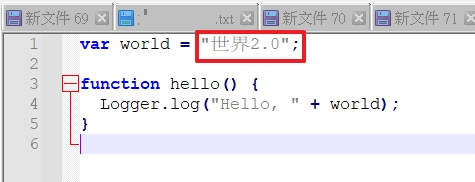
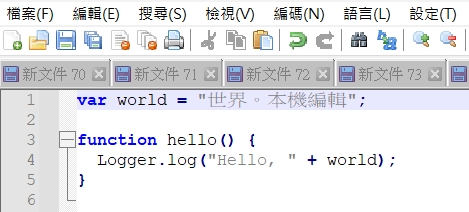
Site updated: 2025-12-04 17:24:09

diff --git a/2025/12/03/Google-App-Script-GAS-應用/index.html b/2025/12/03/Google-App-Script-GAS-應用/index.html
@@ -25,9 +25,9 @@
 <meta property="og:image" content="http://example.com/2025/12/03/Google-App-Script-GAS-%E6%87%89%E7%94%A8/clasp_10.jpg">
 <meta property="og:image" content="http://example.com/2025/12/03/Google-App-Script-GAS-%E6%87%89%E7%94%A8/clasp_11.jpg">
 <meta property="og:image" content="http://example.com/2025/12/03/Google-App-Script-GAS-%E6%87%89%E7%94%A8/clasp_12.jpg">
-<meta property="og:image" content="http://example.com/2025/12/03/Google-App-Script-GAS-%E6%87%89%E7%94%A8/clasp_12.jpg">
+<meta property="og:image" content="http://example.com/2025/12/03/Google-App-Script-GAS-%E6%87%89%E7%94%A8/clasp_13.jpg">
 <meta property="article:published_time" content="2025-12-03T06:32:25.000Z">
-<meta property="article:modified_time" content="2025-12-04T09:12:20.853Z">
+<meta property="article:modified_time" content="2025-12-04T09:24:01.371Z">
 <meta property="article:author" content="John Doe">
 <meta property="article:tag" content="GAS">
 <meta name="twitter:card" content="summary">
@@ -173,7 +173,7 @@
 <img src="/2025/12/03/Google-App-Script-GAS-%E6%87%89%E7%94%A8/clasp_7.jpg" class="" title="clasp create success">
 <h5 id="到Google-App-Script的管理頁看，也會多了一個叫clasp-condelab的新專案。"><a href="#到Google-App-Script的管理頁看，也會多了一個叫clasp-condelab的新專案。" class="headerlink" title="到Google App Script的管理頁看，也會多了一個叫clasp_condelab的新專案。"></a>到Google App Script的管理頁看，也會多了一個叫clasp_condelab的新專案。</h5><img src="/2025/12/03/Google-App-Script-GAS-%E6%87%89%E7%94%A8/clasp_8.jpg" class="" title="new project">
 <h1 id="-44"><a href="#-44" class="headerlink" title=""></a></h1><h1 id="-45"><a href="#-45" class="headerlink" title=""></a></h1><h1 id="-46"><a href="#-46" class="headerlink" title=""></a></h1><h1 id="-47"><a href="#-47" class="headerlink" title=""></a></h1></li>
-<li><h5 id="push-pull"><a href="#push-pull" class="headerlink" title="push &amp; pull"></a>push &amp; pull</h5><ol>
+<li><h5 id="push-pull-version-指令"><a href="#push-pull-version-指令" class="headerlink" title="push &amp; pull &amp; version 指令"></a>push &amp; pull &amp; version 指令</h5><ol>
 <li><h5 id="接著來試試看pull功能，我們在專案clasp-condelab的線上編輯器新增一個test檔案-不用副檔名-。並在裡面新增內容。編輯完成後要記得點選存檔"><a href="#接著來試試看pull功能，我們在專案clasp-condelab的線上編輯器新增一個test檔案-不用副檔名-。並在裡面新增內容。編輯完成後要記得點選存檔" class="headerlink" title="接著來試試看pull功能，我們在專案clasp_condelab的線上編輯器新增一個test檔案(不用副檔名)。並在裡面新增內容。編輯完成後要記得點選存檔!!"></a>接著來試試看pull功能，我們在專案clasp_condelab的線上編輯器新增一個test檔案(不用副檔名)。並在裡面新增內容。編輯完成後要記得點選存檔!!</h5></li>
 </ol>
 <img src="/2025/12/03/Google-App-Script-GAS-%E6%87%89%E7%94%A8/clasp_9.jpg" class="" title="add new file">
@@ -184,25 +184,15 @@
 <figure class="highlight bash"><table><tr><td class="gutter"><pre><span class="line">1</span><br></pre></td><td class="code"><pre><span class="line">clasp pull</span><br></pre></td></tr></table></figure>
 <img src="/2025/12/03/Google-App-Script-GAS-%E6%87%89%E7%94%A8/clasp_11.jpg" class="" title="pull done.">
 <h1 id="-56"><a href="#-56" class="headerlink" title=""></a></h1><h1 id="-57"><a href="#-57" class="headerlink" title=""></a></h1><h1 id="-58"><a href="#-58" class="headerlink" title=""></a></h1><h1 id="-59"><a href="#-59" class="headerlink" title=""></a></h1><ol start="3">
-<li><h5 id="如果執行push的話，則是會在線上GAS上新增一個快照版本，可以把目前的程式內容做成一份快照存下來。我們來修改一下GAS程式內容做個測試。"><a href="#如果執行push的話，則是會在線上GAS上新增一個快照版本，可以把目前的程式內容做成一份快照存下來。我們來修改一下GAS程式內容做個測試。" class="headerlink" title="如果執行push的話，則是會在線上GAS上新增一個快照版本，可以把目前的程式內容做成一份快照存下來。我們來修改一下GAS程式內容做個測試。"></a>如果執行push的話，則是會在線上GAS上新增一個快照版本，可以把目前的程式內容做成一份快照存下來。我們來修改一下GAS程式內容做個測試。</h5> <img src="/2025/12/03/Google-App-Script-GAS-%E6%87%89%E7%94%A8/clasp_12.jpg" class="">
+<li><h5 id="如果執行push的話，則是會在把你在本機編輯的GAS程式push到遠端上面。我們編輯一下本機GAS程式，並執行push來做個測試。"><a href="#如果執行push的話，則是會在把你在本機編輯的GAS程式push到遠端上面。我們編輯一下本機GAS程式，並執行push來做個測試。" class="headerlink" title="如果執行push的話，則是會在把你在本機編輯的GAS程式push到遠端上面。我們編輯一下本機GAS程式，並執行push來做個測試。"></a>如果執行push的話，則是會在把你在本機編輯的GAS程式push到遠端上面。我們編輯一下本機GAS程式，並執行push來做個測試。</h5> <img src="/2025/12/03/Google-App-Script-GAS-%E6%87%89%E7%94%A8/clasp_12.jpg" class="">
 <h1 id="-60"><a href="#-60" class="headerlink" title=""></a></h1><h1 id="-61"><a href="#-61" class="headerlink" title=""></a></h1><h1 id="-62"><a href="#-62" class="headerlink" title=""></a></h1> <figure class="highlight bash"><table><tr><td class="gutter"><pre><span class="line">1</span><br></pre></td><td class="code"><pre><span class="line">clasp push</span><br></pre></td></tr></table></figure>
-<h1 id="-63"><a href="#-63" class="headerlink" title=""></a></h1><h1 id="-64"><a href="#-64" class="headerlink" title=""></a></h1><h1 id="-65"><a href="#-65" class="headerlink" title=""></a></h1><h5 id="切換到專案紀錄頁籤，可以看到"><a href="#切換到專案紀錄頁籤，可以看到" class="headerlink" title="切換到專案紀錄頁籤，可以看到"></a>切換到專案紀錄頁籤，可以看到</h5> <img src="/2025/12/03/Google-App-Script-GAS-%E6%87%89%E7%94%A8/clasp_12.jpg" class=""></li>
+<h1 id="-63"><a href="#-63" class="headerlink" title=""></a></h1><h1 id="-64"><a href="#-64" class="headerlink" title=""></a></h1><h1 id="-65"><a href="#-65" class="headerlink" title=""></a></h1><h5 id="重新整理GAS後，可以看到線上的GAS程式被改變了"><a href="#重新整理GAS後，可以看到線上的GAS程式被改變了" class="headerlink" title="重新整理GAS後，可以看到線上的GAS程式被改變了"></a>重新整理GAS後，可以看到線上的GAS程式被改變了</h5> <img src="/2025/12/03/Google-App-Script-GAS-%E6%87%89%E7%94%A8/clasp_13.jpg" class=""></li>
+<li><h5 id="如果執行version-“-備註-”的話，則是會在線上GAS上新增一個快照版本，可以把目前的程式內容做成一份快照存下來。我們來修改一下GAS程式內容並執行version指令做個測試。"><a href="#如果執行version-“-備註-”的話，則是會在線上GAS上新增一個快照版本，可以把目前的程式內容做成一份快照存下來。我們來修改一下GAS程式內容並執行version指令做個測試。" class="headerlink" title="如果執行version “{備註}”的話，則是會在線上GAS上新增一個快照版本，可以把目前的程式內容做成一份快照存下來。我們來修改一下GAS程式內容並執行version指令做個測試。"></a>如果執行version “{備註}”的話，則是會在線上GAS上新增一個快照版本，可以把目前的程式內容做成一份快照存下來。我們來修改一下GAS程式內容並執行version指令做個測試。</h5></li>
 </ol>
-</li>
-<li><h5 id="版本管理與部署，clasp-可讓您管理版本和部署作業。首先介紹一些詞彙："><a href="#版本管理與部署，clasp-可讓您管理版本和部署作業。首先介紹一些詞彙：" class="headerlink" title="版本管理與部署，clasp 可讓您管理版本和部署作業。首先介紹一些詞彙："></a>版本管理與部署，clasp 可讓您管理版本和部署作業。首先介紹一些詞彙：</h5><ul>
-<li><h5 id="版本：「快照」編寫程式碼版本可視為用於部署作業的唯讀分支版本。"><a href="#版本：「快照」編寫程式碼版本可視為用於部署作業的唯讀分支版本。" class="headerlink" title="版本：「快照」編寫程式碼版本可視為用於部署作業的唯讀分支版本。"></a>版本：「快照」編寫程式碼版本可視為用於部署作業的唯讀分支版本。</h5></li>
-<li><h5 id="部署作業：指令碼專案的已發布版本-通常是外掛程式或網頁應用程式-。需要版本號碼。"><a href="#部署作業：指令碼專案的已發布版本-通常是外掛程式或網頁應用程式-。需要版本號碼。" class="headerlink" title="部署作業：指令碼專案的已發布版本 (通常是外掛程式或網頁應用程式)。需要版本號碼。"></a>部署作業：指令碼專案的已發布版本 (通常是外掛程式或網頁應用程式)。需要版本號碼。</h5></li>
-</ul>
-<ol>
-<li><h5 id="建立快照前，對本機程式做些修改並存檔。"><a href="#建立快照前，對本機程式做些修改並存檔。" class="headerlink" title="建立快照前，對本機程式做些修改並存檔。"></a>建立快照前，對本機程式做些修改並存檔。</h5></li>
+<figure class="highlight bash"><table><tr><td class="gutter"><pre><span class="line">1</span><br><span class="line">2</span><br><span class="line">3</span><br><span class="line">4</span><br><span class="line">5</span><br><span class="line">6</span><br><span class="line">7</span><br><span class="line">8</span><br><span class="line">9</span><br><span class="line">10</span><br><span class="line">11</span><br><span class="line">12</span><br><span class="line">13</span><br><span class="line">14</span><br></pre></td><td class="code"><pre><span class="line">    clasp push</span><br><span class="line">    ```    </span><br><span class="line">6. <span class="comment">##### 版本管理與部署，clasp 可讓您管理版本和部署作業。首先介紹一些詞彙：</span></span><br><span class="line">    * <span class="comment">##### 版本：「快照」編寫程式碼版本可視為用於部署作業的唯讀分支版本。</span></span><br><span class="line">    * <span class="comment">##### 部署作業：指令碼專案的已發布版本 (通常是外掛程式或網頁應用程式)。需要版本號碼。</span></span><br><span class="line">    1. <span class="comment">##### 建立快照前，對本機程式做些修改並存檔。</span></span><br><span class="line">    </span><br><span class="line">    <span class="comment">#</span></span><br><span class="line">    <span class="comment">#</span></span><br><span class="line">    <span class="comment">#</span></span><br><span class="line">    <span class="comment">#    </span></span><br><span class="line">    2. <span class="comment">##### 接著執行指令，建立快照</span></span><br><span class="line">    ```bash</span><br><span class="line">    clasp version <span class="string">&quot;version 2.0&quot;</span></span><br></pre></td></tr></table></figure>
+<figure class="highlight bash"><table><tr><td class="gutter"><pre><span class="line">1</span><br></pre></td><td class="code"><pre><span class="line">clasp deploy 1 <span class="string">&quot;First deployment&quot;</span></span><br></pre></td></tr></table></figure></li>
 </ol>
-<h1 id="-66"><a href="#-66" class="headerlink" title=""></a></h1><h1 id="-67"><a href="#-67" class="headerlink" title=""></a></h1><h1 id="-68"><a href="#-68" class="headerlink" title=""></a></h1><h1 id="-69"><a href="#-69" class="headerlink" title=""></a></h1><ol start="2">
-<li><h5 id="接著執行指令，建立快照"><a href="#接著執行指令，建立快照" class="headerlink" title="接著執行指令，建立快照"></a>接著執行指令，建立快照</h5></li>
-</ol>
- <figure class="highlight bash"><table><tr><td class="gutter"><pre><span class="line">1</span><br></pre></td><td class="code"><pre><span class="line">clasp version <span class="string">&quot;version 2.0&quot;</span></span><br></pre></td></tr></table></figure>
- <figure class="highlight bash"><table><tr><td class="gutter"><pre><span class="line">1</span><br></pre></td><td class="code"><pre><span class="line">clasp deploy 1 <span class="string">&quot;First deployment&quot;</span></span><br></pre></td></tr></table></figure></li>
-</ol>
-<h1 id="-70"><a href="#-70" class="headerlink" title=""></a></h1><h1 id="-71"><a href="#-71" class="headerlink" title=""></a></h1><h1 id="-72"><a href="#-72" class="headerlink" title=""></a></h1><h1 id="-73"><a href="#-73" class="headerlink" title=""></a></h1><hr>
+<h1 id="-66"><a href="#-66" class="headerlink" title=""></a></h1><h1 id="-67"><a href="#-67" class="headerlink" title=""></a></h1><h1 id="-68"><a href="#-68" class="headerlink" title=""></a></h1><h1 id="-69"><a href="#-69" class="headerlink" title=""></a></h1><hr>
 <ul>
 <li><h5 id="Ref："><a href="#Ref：" class="headerlink" title="Ref："></a>Ref：</h5><ol>
 <li><h5 id="clasp-Apps-Script-CLI"><a href="#clasp-Apps-Script-CLI" class="headerlink" title="clasp - Apps Script CLI"></a><a target="_blank" rel="noopener" href="https://codelabs.developers.google.com/codelabs/clasp?hl=zh-tw#0">clasp - Apps Script CLI</a></h5></li>
@@ -214,7 +204,7 @@
       
     </div>
     <footer class="article-footer">
-      <a data-url="http://example.com/2025/12/03/Google-App-Script-GAS-%E6%87%89%E7%94%A8/" data-id="cmir7wsls000n1wn17z0ic99k" data-title="Google App Script(GAS)應用" class="article-share-link"><span class="fa fa-share">Share</span></a>
+      <a data-url="http://example.com/2025/12/03/Google-App-Script-GAS-%E6%87%89%E7%94%A8/" data-id="cmir8bett000j58n13o6o2gn0" data-title="Google App Script(GAS)應用" class="article-share-link"><span class="fa fa-share">Share</span></a>
       
       
       

diff --git a/index.html b/index.html
@@ -110,7 +110,7 @@
       
     </div>
     <footer class="article-footer">
-      <a data-url="http://example.com/2025/12/03/Google-App-Script-GAS-%E6%87%89%E7%94%A8/" data-id="cmir7wsls000n1wn17z0ic99k" data-title="Google App Script(GAS)應用" class="article-share-link"><span class="fa fa-share">Share</span></a>
+      <a data-url="http://example.com/2025/12/03/Google-App-Script-GAS-%E6%87%89%E7%94%A8/" data-id="cmir8bett000j58n13o6o2gn0" data-title="Google App Script(GAS)應用" class="article-share-link"><span class="fa fa-share">Share</span></a>
       
       
       
@@ -159,7 +159,7 @@
       
     </div>
     <footer class="article-footer">
-      <a data-url="http://example.com/2025/10/28/Line-API-%E7%BE%A4%E7%B5%84%E6%8E%A8%E6%92%AD/" data-id="cmir7wsls000p1wn11g48cscr" data-title="Line-API-群組推播" class="article-share-link"><span class="fa fa-share">Share</span></a>
+      <a data-url="http://example.com/2025/10/28/Line-API-%E7%BE%A4%E7%B5%84%E6%8E%A8%E6%92%AD/" data-id="cmir8betu000l58n1hiu9hbgx" data-title="Line-API-群組推播" class="article-share-link"><span class="fa fa-share">Share</span></a>
       
       
       
@@ -208,7 +208,7 @@
       
     </div>
     <footer class="article-footer">
-      <a data-url="http://example.com/2025/10/22/Simple-Docker-App/" data-id="cmir7wslt000r1wn126vt75ou" data-title="Simple-Docker-App" class="article-share-link"><span class="fa fa-share">Share</span></a>
+      <a data-url="http://example.com/2025/10/22/Simple-Docker-App/" data-id="cmir8betv000n58n1f0ybhq4x" data-title="Simple-Docker-App" class="article-share-link"><span class="fa fa-share">Share</span></a>
       
       
       
@@ -257,7 +257,7 @@
       
     </div>
     <footer class="article-footer">
-      <a data-url="http://example.com/2025/10/01/Docker-with-WSL2-3-DockerCompose/" data-id="cmir7wsli00051wn1e604dgzx" data-title="Docker with WSL2(3) - 利用Docker Compose達到熱重載效果" class="article-share-link"><span class="fa fa-share">Share</span></a>
+      <a data-url="http://example.com/2025/10/01/Docker-with-WSL2-3-DockerCompose/" data-id="cmir8bett000i58n1hex670vk" data-title="Docker with WSL2(3) - 利用Docker Compose達到熱重載效果" class="article-share-link"><span class="fa fa-share">Share</span></a>
       
       
       
@@ -306,7 +306,7 @@
       
     </div>
     <footer class="article-footer">
-      <a data-url="http://example.com/2025/09/25/Docker-with-WSL2-2/" data-id="cmir7wslh00041wn10ht68k8d" data-title="Docker with WSL2(2) - Dockerfile" class="article-share-link"><span class="fa fa-share">Share</span></a>
+      <a data-url="http://example.com/2025/09/25/Docker-with-WSL2-2/" data-id="cmir8betk000558n1b0328z0d" data-title="Docker with WSL2(2) - Dockerfile" class="article-share-link"><span class="fa fa-share">Share</span></a>
       
       
       
@@ -355,7 +355,7 @@
       
     </div>
     <footer class="article-footer">
-      <a data-url="http://example.com/2025/09/22/docker-with-WSL2-1/" data-id="cmir7wslu000t1wn10ydu0244" data-title="Docker with WSL2(1) - 安裝Ubuntu + Docker Engin，並且建立快照備份!" class="article-share-link"><span class="fa fa-share">Share</span></a>
+      <a data-url="http://example.com/2025/09/22/docker-with-WSL2-1/" data-id="cmir8betw000p58n13910bx0w" data-title="Docker with WSL2(1) - 安裝Ubuntu + Docker Engin，並且建立快照備份!" class="article-share-link"><span class="fa fa-share">Share</span></a>
       
       
       
@@ -404,7 +404,7 @@
       
     </div>
     <footer class="article-footer">
-      <a data-url="http://example.com/2025/09/22/Docker%20%E5%9F%BA%E6%9C%AC%E6%A6%82%E5%BF%B5/" data-id="cmir7wslr000m1wn1b54pancw" data-title="Docker 基本概念" class="article-share-link"><span class="fa fa-share">Share</span></a>
+      <a data-url="http://example.com/2025/09/22/Docker%20%E5%9F%BA%E6%9C%AC%E6%A6%82%E5%BF%B5/" data-id="cmir8betj000458n1hoj1cmiy" data-title="Docker 基本概念" class="article-share-link"><span class="fa fa-share">Share</span></a>
       
       
       
@@ -453,7 +453,7 @@
       
     </div>
     <footer class="article-footer">
-      <a data-url="http://example.com/2025/09/08/chrome%E5%A5%97%E4%BB%B6%E4%BD%BF%E7%94%A8Node-js%E5%A5%97%E4%BB%B6/" data-id="cmir7wslv000w1wn10snieb58" data-title="Webpack打包(以Chrome extension為範例)" class="article-share-link"><span class="fa fa-share">Share</span></a>
+      <a data-url="http://example.com/2025/09/08/chrome%E5%A5%97%E4%BB%B6%E4%BD%BF%E7%94%A8Node-js%E5%A5%97%E4%BB%B6/" data-id="cmir8betx000s58n12ai7g7ai" data-title="Webpack打包(以Chrome extension為範例)" class="article-share-link"><span class="fa fa-share">Share</span></a>
       
       
       

diff --git a/2025/09/08/chrome套件使用Node-js套件/index.html b/2025/09/08/chrome套件使用Node-js套件/index.html
@@ -148,7 +148,7 @@
       
     </div>
     <footer class="article-footer">
-      <a data-url="http://example.com/2025/09/08/chrome%E5%A5%97%E4%BB%B6%E4%BD%BF%E7%94%A8Node-js%E5%A5%97%E4%BB%B6/" data-id="cmir7wslv000w1wn10snieb58" data-title="Webpack打包(以Chrome extension為範例)" class="article-share-link"><span class="fa fa-share">Share</span></a>
+      <a data-url="http://example.com/2025/09/08/chrome%E5%A5%97%E4%BB%B6%E4%BD%BF%E7%94%A8Node-js%E5%A5%97%E4%BB%B6/" data-id="cmir8betx000s58n12ai7g7ai" data-title="Webpack打包(以Chrome extension為範例)" class="article-share-link"><span class="fa fa-share">Share</span></a>
       
       
       

diff --git a/2025/09/22/docker-with-WSL2-1/index.html b/2025/09/22/docker-with-WSL2-1/index.html
@@ -272,7 +272,7 @@
       
     </div>
     <footer class="article-footer">
-      <a data-url="http://example.com/2025/09/22/docker-with-WSL2-1/" data-id="cmir7wslu000t1wn10ydu0244" data-title="Docker with WSL2(1) - 安裝Ubuntu + Docker Engin，並且建立快照備份!" class="article-share-link"><span class="fa fa-share">Share</span></a>
+      <a data-url="http://example.com/2025/09/22/docker-with-WSL2-1/" data-id="cmir8betw000p58n13910bx0w" data-title="Docker with WSL2(1) - 安裝Ubuntu + Docker Engin，並且建立快照備份!" class="article-share-link"><span class="fa fa-share">Share</span></a>
       
       
       

diff --git a/2025/10/01/Docker-with-WSL2-3-DockerCompose/index.html b/2025/10/01/Docker-with-WSL2-3-DockerCompose/index.html
@@ -221,7 +221,7 @@
       
     </div>
     <footer class="article-footer">
-      <a data-url="http://example.com/2025/10/01/Docker-with-WSL2-3-DockerCompose/" data-id="cmir7wsli00051wn1e604dgzx" data-title="Docker with WSL2(3) - 利用Docker Compose達到熱重載效果" class="article-share-link"><span class="fa fa-share">Share</span></a>
+      <a data-url="http://example.com/2025/10/01/Docker-with-WSL2-3-DockerCompose/" data-id="cmir8bett000i58n1hex670vk" data-title="Docker with WSL2(3) - 利用Docker Compose達到熱重載效果" class="article-share-link"><span class="fa fa-share">Share</span></a>
       
       
       

diff --git a/2025/10/28/Line-API-群組推播/index.html b/2025/10/28/Line-API-群組推播/index.html
@@ -150,7 +150,7 @@
       
     </div>
     <footer class="article-footer">
-      <a data-url="http://example.com/2025/10/28/Line-API-%E7%BE%A4%E7%B5%84%E6%8E%A8%E6%92%AD/" data-id="cmir7wsls000p1wn11g48cscr" data-title="Line-API-群組推播" class="article-share-link"><span class="fa fa-share">Share</span></a>
+      <a data-url="http://example.com/2025/10/28/Line-API-%E7%BE%A4%E7%B5%84%E6%8E%A8%E6%92%AD/" data-id="cmir8betu000l58n1hiu9hbgx" data-title="Line-API-群組推播" class="article-share-link"><span class="fa fa-share">Share</span></a>
       
       
       

diff --git a/2025/09/22/Docker 基本概念/index.html b/2025/09/22/Docker 基本概念/index.html
@@ -188,7 +188,7 @@
       
     </div>
     <footer class="article-footer">
-      <a data-url="http://example.com/2025/09/22/Docker%20%E5%9F%BA%E6%9C%AC%E6%A6%82%E5%BF%B5/" data-id="cmir7wslr000m1wn1b54pancw" data-title="Docker 基本概念" class="article-share-link"><span class="fa fa-share">Share</span></a>
+      <a data-url="http://example.com/2025/09/22/Docker%20%E5%9F%BA%E6%9C%AC%E6%A6%82%E5%BF%B5/" data-id="cmir8betj000458n1hoj1cmiy" data-title="Docker 基本概念" class="article-share-link"><span class="fa fa-share">Share</span></a>
       
       
       

diff --git a/2025/09/25/Docker-with-WSL2-2/index.html b/2025/09/25/Docker-with-WSL2-2/index.html
@@ -322,7 +322,7 @@
       
     </div>
     <footer class="article-footer">
-      <a data-url="http://example.com/2025/09/25/Docker-with-WSL2-2/" data-id="cmir7wslh00041wn10ht68k8d" data-title="Docker with WSL2(2) - Dockerfile" class="article-share-link"><span class="fa fa-share">Share</span></a>
+      <a data-url="http://example.com/2025/09/25/Docker-with-WSL2-2/" data-id="cmir8betk000558n1b0328z0d" data-title="Docker with WSL2(2) - Dockerfile" class="article-share-link"><span class="fa fa-share">Share</span></a>
       
       
       

diff --git a/2025/10/22/Simple-Docker-App/index.html b/2025/10/22/Simple-Docker-App/index.html
@@ -209,7 +209,7 @@
       
     </div>
     <footer class="article-footer">
-      <a data-url="http://example.com/2025/10/22/Simple-Docker-App/" data-id="cmir7wslt000r1wn126vt75ou" data-title="Simple-Docker-App" class="article-share-link"><span class="fa fa-share">Share</span></a>
+      <a data-url="http://example.com/2025/10/22/Simple-Docker-App/" data-id="cmir8betv000n58n1f0ybhq4x" data-title="Simple-Docker-App" class="article-share-link"><span class="fa fa-share">Share</span></a>
       
       
       
